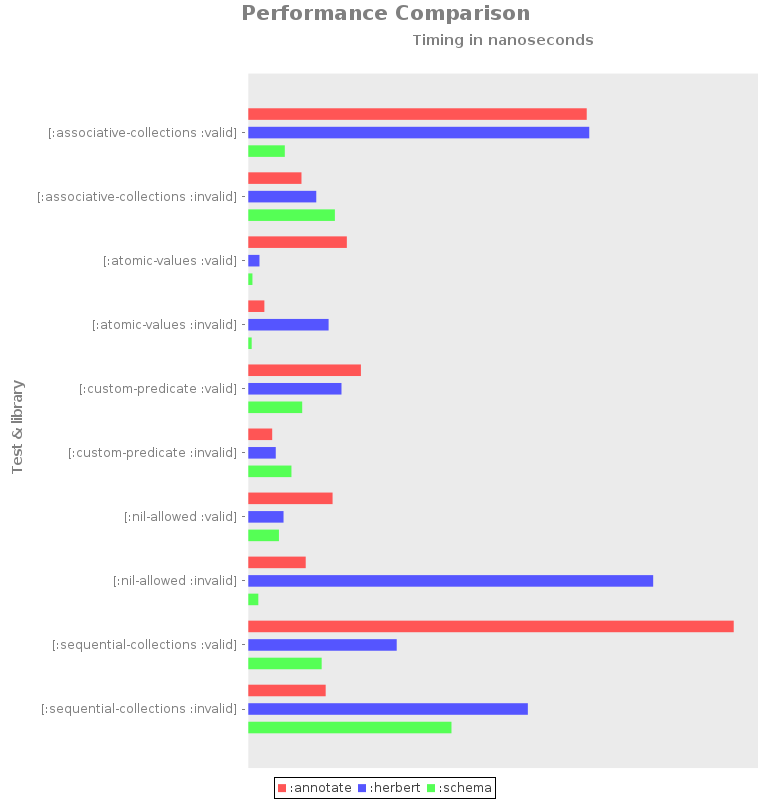
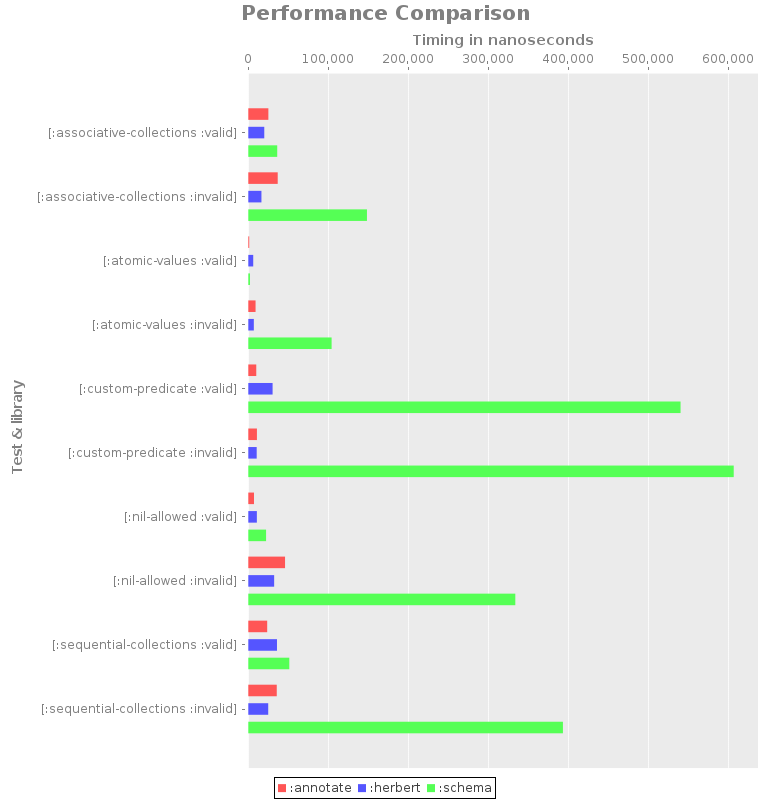
Deploy to GitHub Pages

diff --git a/index.html b/index.html
@@ -1,2 +1,2 @@
 <!DOCTYPE html>
-<html><head><link crossorigin="anonymous" href="https://maxcdn.bootstrapcdn.com/bootstrap/3.3.6/css/bootstrap.min.css" integrity="sha384-1q8mTJOASx8j1Au+a5WDVnPi2lkFfwwEAa8hDDdjZlpLegxhjVME1fgjWPGmkzs7" rel="stylesheet"><link crossorigin="anonymous" href="https://maxcdn.bootstrapcdn.com/bootstrap/3.3.6/css/bootstrap-theme.min.css" integrity="sha384-fLW2N01lMqjakBkx3l/M9EahuwpSfeNvV63J5ezn3uZzapT0u7EYsXMjQV+0En5r" rel="stylesheet"><script src="https://code.jquery.com/jquery-2.2.3.min.js"></script><script crossorigin="anonymous" integrity="sha384-0mSbJDEHialfmuBBQP6A4Qrprq5OVfW37PRR3j5ELqxss1yVqOtnepnHVP9aJ7xS" src="https://maxcdn.bootstrapcdn.com/bootstrap/3.3.6/js/bootstrap.min.js"></script></head><body data-spy="scroll" data-target="#navbar"><a href="https://github.com/muhuk/validation-benchmark"><img alt="Fork me on GitHub" data-canonical-src="https://s3.amazonaws.com/github/ribbons/forkme_right_gray_6d6d6d.png" src="https://camo.githubusercontent.com/a6677b08c955af8400f44c6298f40e7d19cc5b2d/68747470733a2f2f73332e616d617a6f6e6177732e636f6d2f6769746875622f726962626f6e732f666f726b6d655f72696768745f677261795f3664366436642e706e67" style="position: absolute; top: 0; right: 0; border: 0;"></a><div class="container"><div class="row" id="top"><div class="col-md-12"><div class="page-header"><h1>validation-benchmark <small>Updated at 2016-05-14</small></h1></div></div></div><div class="row"><div class="col-md-10"><div><h2 id="about">About</h2><div>Benchmark for Clojure validation libraries.</div><div><a href="https://github.com/muhuk/validation-benchmark">Source code</a></div></div><div><h2 id="relative-performance-table">Relative performance table</h2><table class="table"><tr><th>Test name</th><th>Library</th><th>Mean (ns)</th></tr><tr><td>[:associative-collections :valid]</td><td>:annotate</td><td>4525352000000000.000</td></tr><tr><td>[:associative-collections :valid]</td><td>:herbert</td><td>4559036000000000.000</td></tr><tr><td>[:associative-collections :valid]</td><td>:schema</td><td>488109000000000.000</td></tr><tr><td>[:associative-collections :invalid]</td><td>:annotate</td><td>711177000000000.000</td></tr><tr><td>[:associative-collections :invalid]</td><td>:herbert</td><td>908885000000000.000</td></tr><tr><td>[:associative-collections :invalid]</td><td>:schema</td><td>1157779000000000.000</td></tr><tr><td>[:atomic-values :valid]</td><td>:annotate</td><td>1317711000000000.000</td></tr><tr><td>[:atomic-values :valid]</td><td>:herbert</td><td>149514000000000.000</td></tr><tr><td>[:atomic-values :valid]</td><td>:schema</td><td>55411000000000.000</td></tr><tr><td>[:atomic-values :invalid]</td><td>:annotate</td><td>214888000000000.000</td></tr><tr><td>[:atomic-values :invalid]</td><td>:herbert</td><td>1073786000000000.000</td></tr><tr><td>[:atomic-values :invalid]</td><td>:schema</td><td>45383000000000.000</td></tr><tr><td>[:custom-predicate :valid]</td><td>:annotate</td><td>1505991000000000.000</td></tr><tr><td>[:custom-predicate :valid]</td><td>:herbert</td><td>1246068000000000.000</td></tr><tr><td>[:custom-predicate :valid]</td><td>:schema</td><td>720779000000000.000</td></tr><tr><td>[:custom-predicate :invalid]</td><td>:annotate</td><td>319532000000000.000</td></tr><tr><td>[:custom-predicate :invalid]</td><td>:herbert</td><td>367253000000000.000</td></tr><tr><td>[:custom-predicate :invalid]</td><td>:schema</td><td>576972000000000.000</td></tr><tr><td>[:nil-allowed :valid]</td><td>:annotate</td><td>1127033000000000.000</td></tr><tr><td>[:nil-allowed :valid]</td><td>:herbert</td><td>471184000000000.000</td></tr><tr><td>[:nil-allowed :valid]</td><td>:schema</td><td>409742000000000.000</td></tr><tr><td>[:nil-allowed :invalid]</td><td>:annotate</td><td>767879000000000.000</td></tr><tr><td>[:nil-allowed :invalid]</td><td>:herbert</td><td>5413918000000000.000</td></tr><tr><td>[:nil-allowed :invalid]</td><td>:schema</td><td>134083000000000.000</td></tr><tr><td>[:sequential-collections :valid]</td><td>:annotate</td><td>6490893000000000.000</td></tr><tr><td>[:sequential-collections :valid]</td><td>:herbert</td><td>1984581000000000.000</td></tr><tr><td>[:sequential-collections :valid]</td><td>:schema</td><td>981003000000000.000</td></tr><tr><td>[:sequential-collections :invalid]</td><td>:annotate</td><td>1034718000000000.000</td></tr><tr><td>[:sequential-collections :invalid]</td><td>:herbert</td><td>3738005000000000.000</td></tr><tr><td>[:sequential-collections :invalid]</td><td>:schema</td><td>2716723000000000.000</td></tr></table></div><div><h2 id="performance-graph">Performance Graph</h2><img src="chart.png"></div></div><div class="col-md-2" id="navbar"><ul class="nav nav-pills nav-stacked" data-spy="affix"><li><a href="#top"><span class="glyphicon glyphicon-triangle-top"></span> Top</a></li><li><a href="#about"><span class="glyphicon glyphicon-triangle-right"></span> About</a></li><li><a href="#relative-performance-table"><span class="glyphicon glyphicon-triangle-right"></span> Relative performance table</a></li><li><a href="#performance-graph"><span class="glyphicon glyphicon-triangle-right"></span> Performance Graph</a></li></ul></div></div></div></body></html>
+<html><head><link crossorigin="anonymous" href="https://maxcdn.bootstrapcdn.com/bootstrap/3.3.6/css/bootstrap.min.css" integrity="sha384-1q8mTJOASx8j1Au+a5WDVnPi2lkFfwwEAa8hDDdjZlpLegxhjVME1fgjWPGmkzs7" rel="stylesheet"><link crossorigin="anonymous" href="https://maxcdn.bootstrapcdn.com/bootstrap/3.3.6/css/bootstrap-theme.min.css" integrity="sha384-fLW2N01lMqjakBkx3l/M9EahuwpSfeNvV63J5ezn3uZzapT0u7EYsXMjQV+0En5r" rel="stylesheet"><script src="https://code.jquery.com/jquery-2.2.3.min.js"></script><script crossorigin="anonymous" integrity="sha384-0mSbJDEHialfmuBBQP6A4Qrprq5OVfW37PRR3j5ELqxss1yVqOtnepnHVP9aJ7xS" src="https://maxcdn.bootstrapcdn.com/bootstrap/3.3.6/js/bootstrap.min.js"></script></head><body data-spy="scroll" data-target="#navbar"><a href="https://github.com/muhuk/validation-benchmark"><img alt="Fork me on GitHub" data-canonical-src="https://s3.amazonaws.com/github/ribbons/forkme_right_gray_6d6d6d.png" src="https://camo.githubusercontent.com/a6677b08c955af8400f44c6298f40e7d19cc5b2d/68747470733a2f2f73332e616d617a6f6e6177732e636f6d2f6769746875622f726962626f6e732f666f726b6d655f72696768745f677261795f3664366436642e706e67" style="position: absolute; top: 0; right: 0; border: 0;"></a><div class="container"><div class="row" id="top"><div class="col-md-12"><div class="page-header"><h1>validation-benchmark <small>Updated at 2016-05-14</small></h1></div></div></div><div class="row"><div class="col-md-10"><div><h2 id="about">About</h2><div>Benchmark for Clojure validation libraries.</div><div><a href="https://github.com/muhuk/validation-benchmark">Source code</a></div></div><div><h2 id="relative-performance-table">Relative performance table</h2><table class="table"><tr><th>Test</th><th>annotate</th><th>herbert</th><th>schema</th></tr><tr><td><code>[:associative-collections :invalid]</code></td><td class="warning">2.238</td><td class="success">1.000</td><td class="danger">9.030</td></tr><tr><td><code>[:associative-collections :valid]</code></td><td class="warning">1.257</td><td class="success">1.000</td><td class="warning">1.811</td></tr><tr><td><code>[:atomic-values :invalid]</code></td><td class="warning">1.312</td><td class="success">1.000</td><td class="danger">15.055</td></tr><tr><td><code>[:atomic-values :valid]</code></td><td class="success">1.000</td><td class="danger">5.263</td><td class="warning">1.790</td></tr><tr><td><code>[:custom-predicate :invalid]</code></td><td class="success">1.028</td><td class="success">1.000</td><td class="danger">57.803</td></tr><tr><td><code>[:custom-predicate :valid]</code></td><td class="success">1.000</td><td class="danger">3.050</td><td class="danger">54.268</td></tr><tr><td><code>[:nil-allowed :invalid]</code></td><td class="warning">1.421</td><td class="success">1.000</td><td class="danger">10.327</td></tr><tr><td><code>[:nil-allowed :valid]</code></td><td class="success">1.000</td><td class="warning">1.504</td><td class="danger">3.123</td></tr><tr><td><code>[:sequential-collections :invalid]</code></td><td class="warning">1.428</td><td class="success">1.000</td><td class="danger">15.791</td></tr><tr><td><code>[:sequential-collections :valid]</code></td><td class="success">1.000</td><td class="warning">1.518</td><td class="warning">2.170</td></tr></table></div><div><h2 id="performance-graph">Performance Graph</h2><img src="chart.png"></div></div><div class="col-md-2" id="navbar"><ul class="nav nav-pills nav-stacked" data-spy="affix"><li><a href="#top"><span class="glyphicon glyphicon-triangle-top"></span> Top</a></li><li><a href="#about"><span class="glyphicon glyphicon-triangle-right"></span> About</a></li><li><a href="#relative-performance-table"><span class="glyphicon glyphicon-triangle-right"></span> Relative performance table</a></li><li><a href="#performance-graph"><span class="glyphicon glyphicon-triangle-right"></span> Performance Graph</a></li></ul></div></div></div></body></html>
